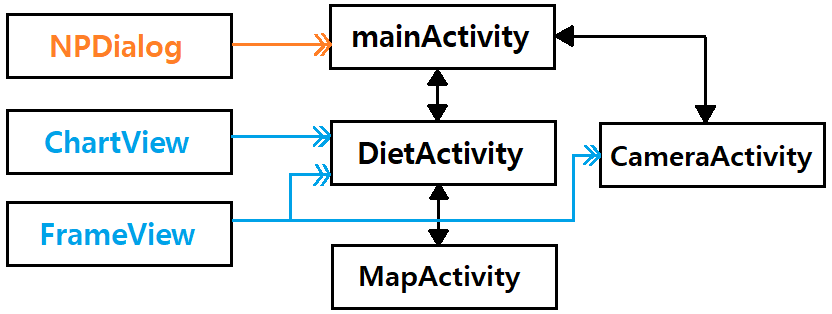
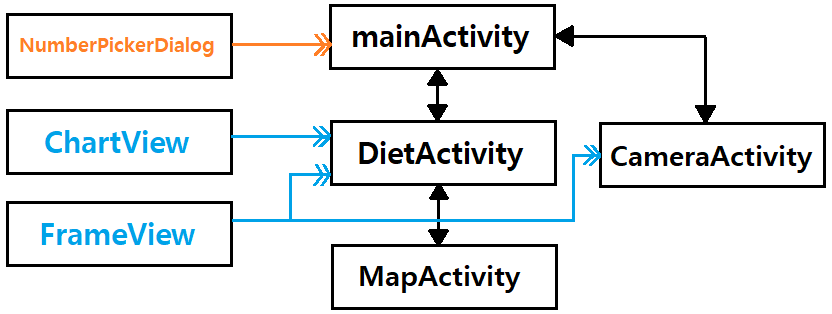
bug fix

Changed region(s): [[0.0, 0.1146, 0.2812, 0.2006]]

diff --git a/DietManager/app/src/main/java/com/cookandroid/dietmanager/MainActivity.java b/DietManager/app/src/main/java/com/cookandroid/dietmanager/MainActivity.java
@@ -4,6 +4,7 @@ import androidx.appcompat.app.AppCompatActivity;
 
 import android.content.ContentResolver;
 import android.content.ContentValues;
+import android.content.Context;
 import android.content.Intent;
 import android.database.Cursor;
 import android.graphics.Bitmap;
@@ -18,6 +19,7 @@ import android.widget.ImageButton;
 import android.widget.Toast;
 
 import java.io.FileInputStream;
+import java.io.FileOutputStream;
 import java.io.IOException;
 import java.io.OutputStream;
 import java.util.Objects;
@@ -55,31 +57,37 @@ public class MainActivity extends AppCompatActivity {
         btnEdit.setOnClickListener(new View.OnClickListener() {
             @Override
             public void onClick(View view) {
-                String str;
-                String strs[] = {"23", "60"};
+                String str = "";
+                String strs[] = {"24", "60"};
 
-                // 사용자 정보 불러오기(내부 저장소 접근)
+                // 사용자 정보 load
                 try {
                     FileInputStream inFs = openFileInput("user_info.txt");
-                    byte[] txt = new byte[20];
-                    inFs.read(txt);
-                    str = new String(txt);
-
-                    // user_info.txt가 없거나 공백이면, 나이 23 몸무게 60으로 설정
-                    if(!str.contains(" ")) {
-                        strs[0] = "23";
-                        strs[1] = "60";
-                    } else{
-                        strs = str.split(" ");
-                    }
+                    byte[] txt = new byte[10];
+                    int txtNo;
+                    while((txtNo=inFs.read()) != -1)
+                        str += (char)txtNo;
                     inFs.close();
+
+                    strs = str.split(" ");
                 } catch (IOException e){
-                    Toast.makeText(getApplicationContext(),"파일 없음",
-                            Toast.LENGTH_LONG).show();
                 }
-                NPDialog npDialog = new NPDialog();
+
+                // NumberPicker Dialog 생성
+                NumberPickerDialog npDialog = new NumberPickerDialog();
                 npDialog.strs = strs;
                 npDialog.show(getSupportFragmentManager(),"사용자 정보 수정");
+
+                // 사용자 정보 save
+                try {
+                    strs = npDialog.strs;
+                    str = strs[0] + " " + strs[1];
+
+                    FileOutputStream outFs = openFileOutput("user_info.txt", Context.MODE_PRIVATE);
+                    outFs.write(str.getBytes());
+                    outFs.close();
+                } catch (Exception e){
+                }
             }
         });
 

diff --git a/DietManager/app/src/main/java/com/cookandroid/dietmanager/NumberPickerDialog.java b/DietManager/app/src/main/java/com/cookandroid/dietmanager/NumberPickerDialog.java
@@ -10,8 +10,9 @@ import android.widget.NumberPicker;
 
 import androidx.fragment.app.DialogFragment;
 
-public class NPDialog extends DialogFragment {
-    public String strs[] = {"23","60"};
+public class NumberPickerDialog extends DialogFragment {
+    private NumberPicker.OnValueChangeListener valueChangeListener;
+    public String strs[] = {"",};
 
     @Override
     public Dialog onCreateDialog(Bundle savedInstanceState) {
@@ -29,20 +30,19 @@ public class NPDialog extends DialogFragment {
         npAge.setMinValue(1);
         npAge.setMaxValue(100);
         npAge.setValue(Integer.parseInt(strs[0]));
+        npAge.setDescendantFocusability(NumberPicker.FOCUS_BLOCK_DESCENDANTS);
 
         npWeight.setMinValue(30);
         npWeight.setMaxValue(120);
         npWeight.setValue(Integer.parseInt(strs[1]));
+        npWeight.setDescendantFocusability(NumberPicker.FOCUS_BLOCK_DESCENDANTS);
 
         builder.setView(dialog);
         builder.setPositiveButton("확인", new DialogInterface.OnClickListener() {
             @Override
             public void onClick(DialogInterface dialogInterface, int i) {
-                try {
-                    // user_info.txt FileOutStream으로 저장
-
-                } catch (Exception e){
-                }
+                strs[0] = Integer.toString(npAge.getValue());
+                strs[1] = Integer.toString(npWeight.getValue());
             }
         });
         builder.setNegativeButton("취소",null);

diff --git a/DietManager/app/src/main/java/com/cookandroid/dietmanager/CameraActivity.java b/DietManager/app/src/main/java/com/cookandroid/dietmanager/CameraActivity.java
@@ -8,7 +8,6 @@ import android.os.Bundle;
 import android.provider.MediaStore;
 import android.view.MenuItem;
 import android.view.View;
-import android.widget.Button;
 import android.widget.ImageButton;
 import android.widget.ImageView;
 import android.widget.LinearLayout;
@@ -174,7 +173,6 @@ public class CameraActivity extends AppCompatActivity {
             today += cal.get(Calendar.YEAR) + ":";
             today += cal.get(Calendar.MONTH) + 1 + ":";
             today += cal.get(Calendar.DAY_OF_MONTH) + ":";
-            today += cal.get(Calendar.HOUR_OF_DAY) + ":";
 
             // find today data
             int i=0;
@@ -270,7 +268,6 @@ public class CameraActivity extends AppCompatActivity {
                 str += (char)txtNo;
             inFs.close();
         } catch (IOException e){
-//            Toast.makeText(this, "fail to load db.txt", Toast.LENGTH_LONG).show();
         }
 
         // "YY:MM:DD:HH:MM"
@@ -285,6 +282,7 @@ public class CameraActivity extends AppCompatActivity {
         str += strFoodEng + " ";
         str += kcal + " " + tans + " " + danb + " " + jiba + " " + natt + "\n";
 
+        // DB save
         try {
             FileOutputStream outFs = openFileOutput("db.txt", Context.MODE_PRIVATE);
             outFs.write(str.getBytes());
